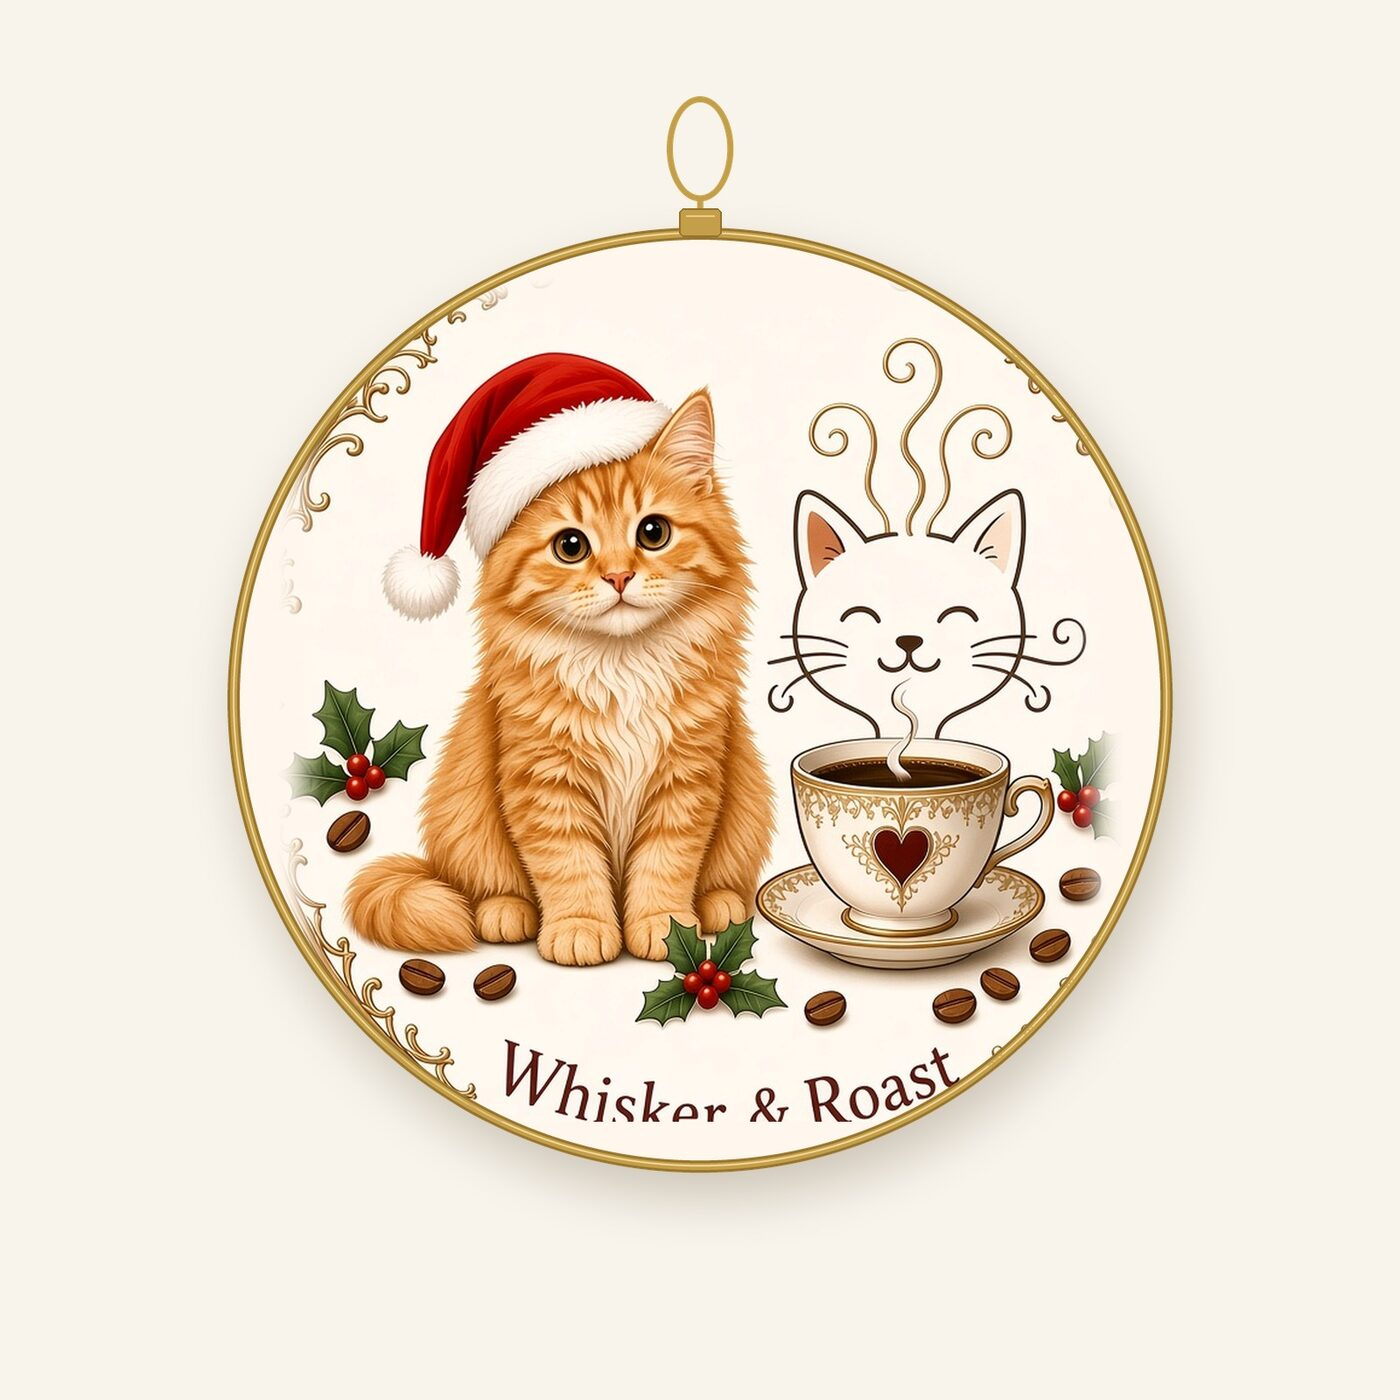
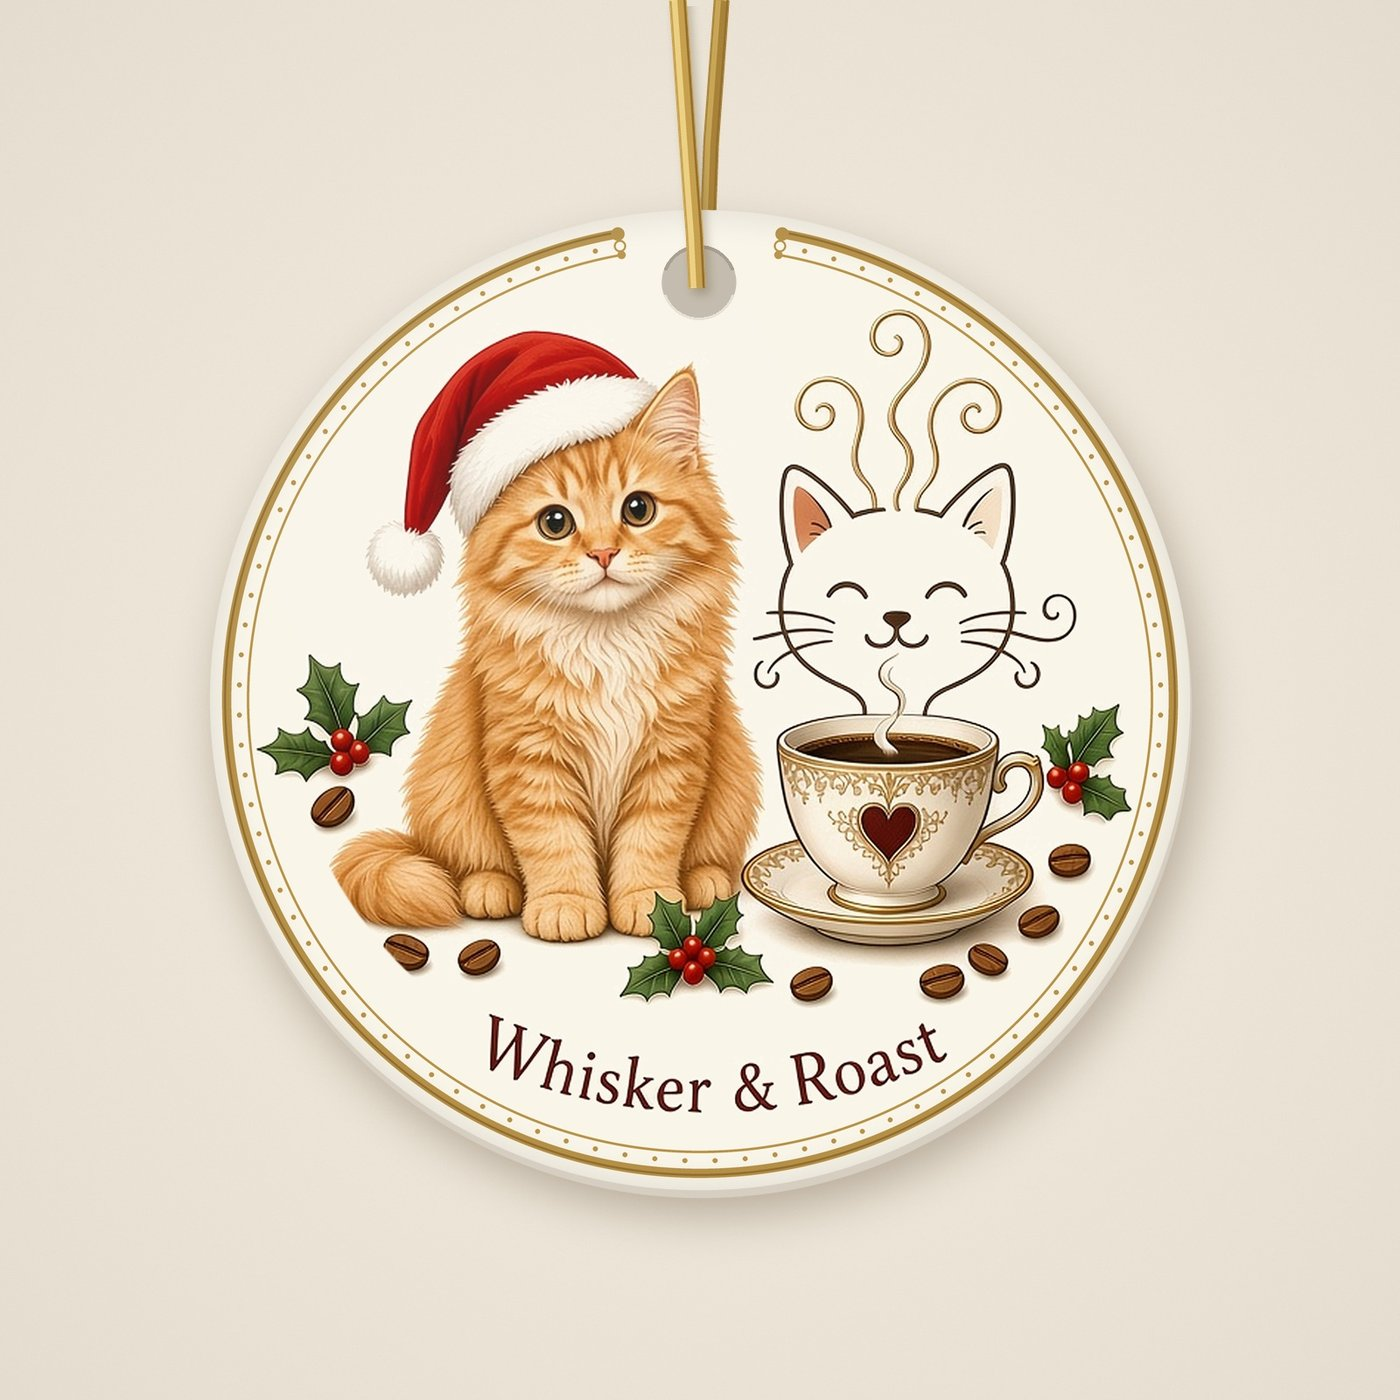
Use FILL_v2 ornament photos and add Christmas tote images (#5)
Replace the Victorian cat and dog ornament card photos with the closer-to-the-rim listing art, and give the Christmas canvas tote cards the same image layout as the Emporium totes.

diff --git a/index.html b/index.html
@@ -189,7 +189,8 @@
       </article>
       </div>
       <div class="grid">
-      <article class="card card-text">
+      <article class="card">
+        <img src="images/christmas_victorian_cat_tote.jpg" alt="Natural canvas tote printed with an orange tabby cat in a striped Christmas sweater, holding a coffee cup, with holly and the words Whisker and Roast." width="1400" height="1400" loading="lazy">
         <div class="card-body">
           <p class="collection">Victorian Christmas · Tote</p>
           <h3>Victorian Christmas Cat Canvas Tote</h3>
@@ -198,7 +199,8 @@
           <a class="btn" href="https://www.etsy.com/listing/4610541437/victorian-christmas-cat-canvas-tote" target="_blank" rel="noopener" aria-label="View Victorian Christmas Cat Canvas Tote on Etsy">View on Etsy</a>
         </div>
       </article>
-      <article class="card card-text">
+      <article class="card">
+        <img src="images/christmas_victorian_dog_tote.jpg" alt="Natural canvas tote printed with a beagle in a striped Christmas sweater, holding a coffee cup, with holly and the words Whisker and Roast." width="1400" height="1400" loading="lazy">
         <div class="card-body">
           <p class="collection">Victorian Christmas · Tote</p>
           <h3>Victorian Christmas Dog Canvas Tote</h3>
@@ -260,7 +262,7 @@
       <p class="lead">Victorian Christmas ceramic ornaments for dog and cat lovers—seasonal tree gifts, sold on Etsy.</p>
       <div class="grid">
       <article class="card">
-        <img src="images/christmas_victorian_cat_ornament.jpg" alt="Round cream ceramic Christmas ornament with a gold hanger, an orange kitten in a Santa hat beside a gold-trimmed coffee cup, holly, coffee beans, and the words Whisker and Roast." width="1400" height="1400" loading="lazy">
+        <img src="images/christmas_victorian_cat_ornament.jpg" alt="Round cream ceramic Christmas ornament hung from a gold cord, an orange kitten in a Santa hat beside a gold-trimmed coffee cup, holly, coffee beans, and the words Whisker and Roast." width="1400" height="1400" loading="lazy">
         <div class="card-body">
           <p class="collection">Victorian Christmas · Ornament</p>
           <h3>Victorian Christmas Cat Ornament</h3>
@@ -270,7 +272,7 @@
         </div>
       </article>
       <article class="card">
-        <img src="images/christmas_victorian_dog_ornament.jpg" alt="Round cream ceramic Christmas ornament with a gold hanger, a golden puppy in a Santa hat beside a gold-trimmed coffee cup, holly, coffee beans, and the words Whisker and Roast." width="1400" height="1400" loading="lazy">
+        <img src="images/christmas_victorian_dog_ornament.jpg" alt="Round cream ceramic Christmas ornament hung from a gold cord, a golden puppy in a Santa hat beside a gold-trimmed coffee cup, holly, coffee beans, and the words Whisker and Roast." width="1400" height="1400" loading="lazy">
         <div class="card-body">
           <p class="collection">Victorian Christmas · Ornament</p>
           <h3>Victorian Christmas Dog Ornament</h3>
